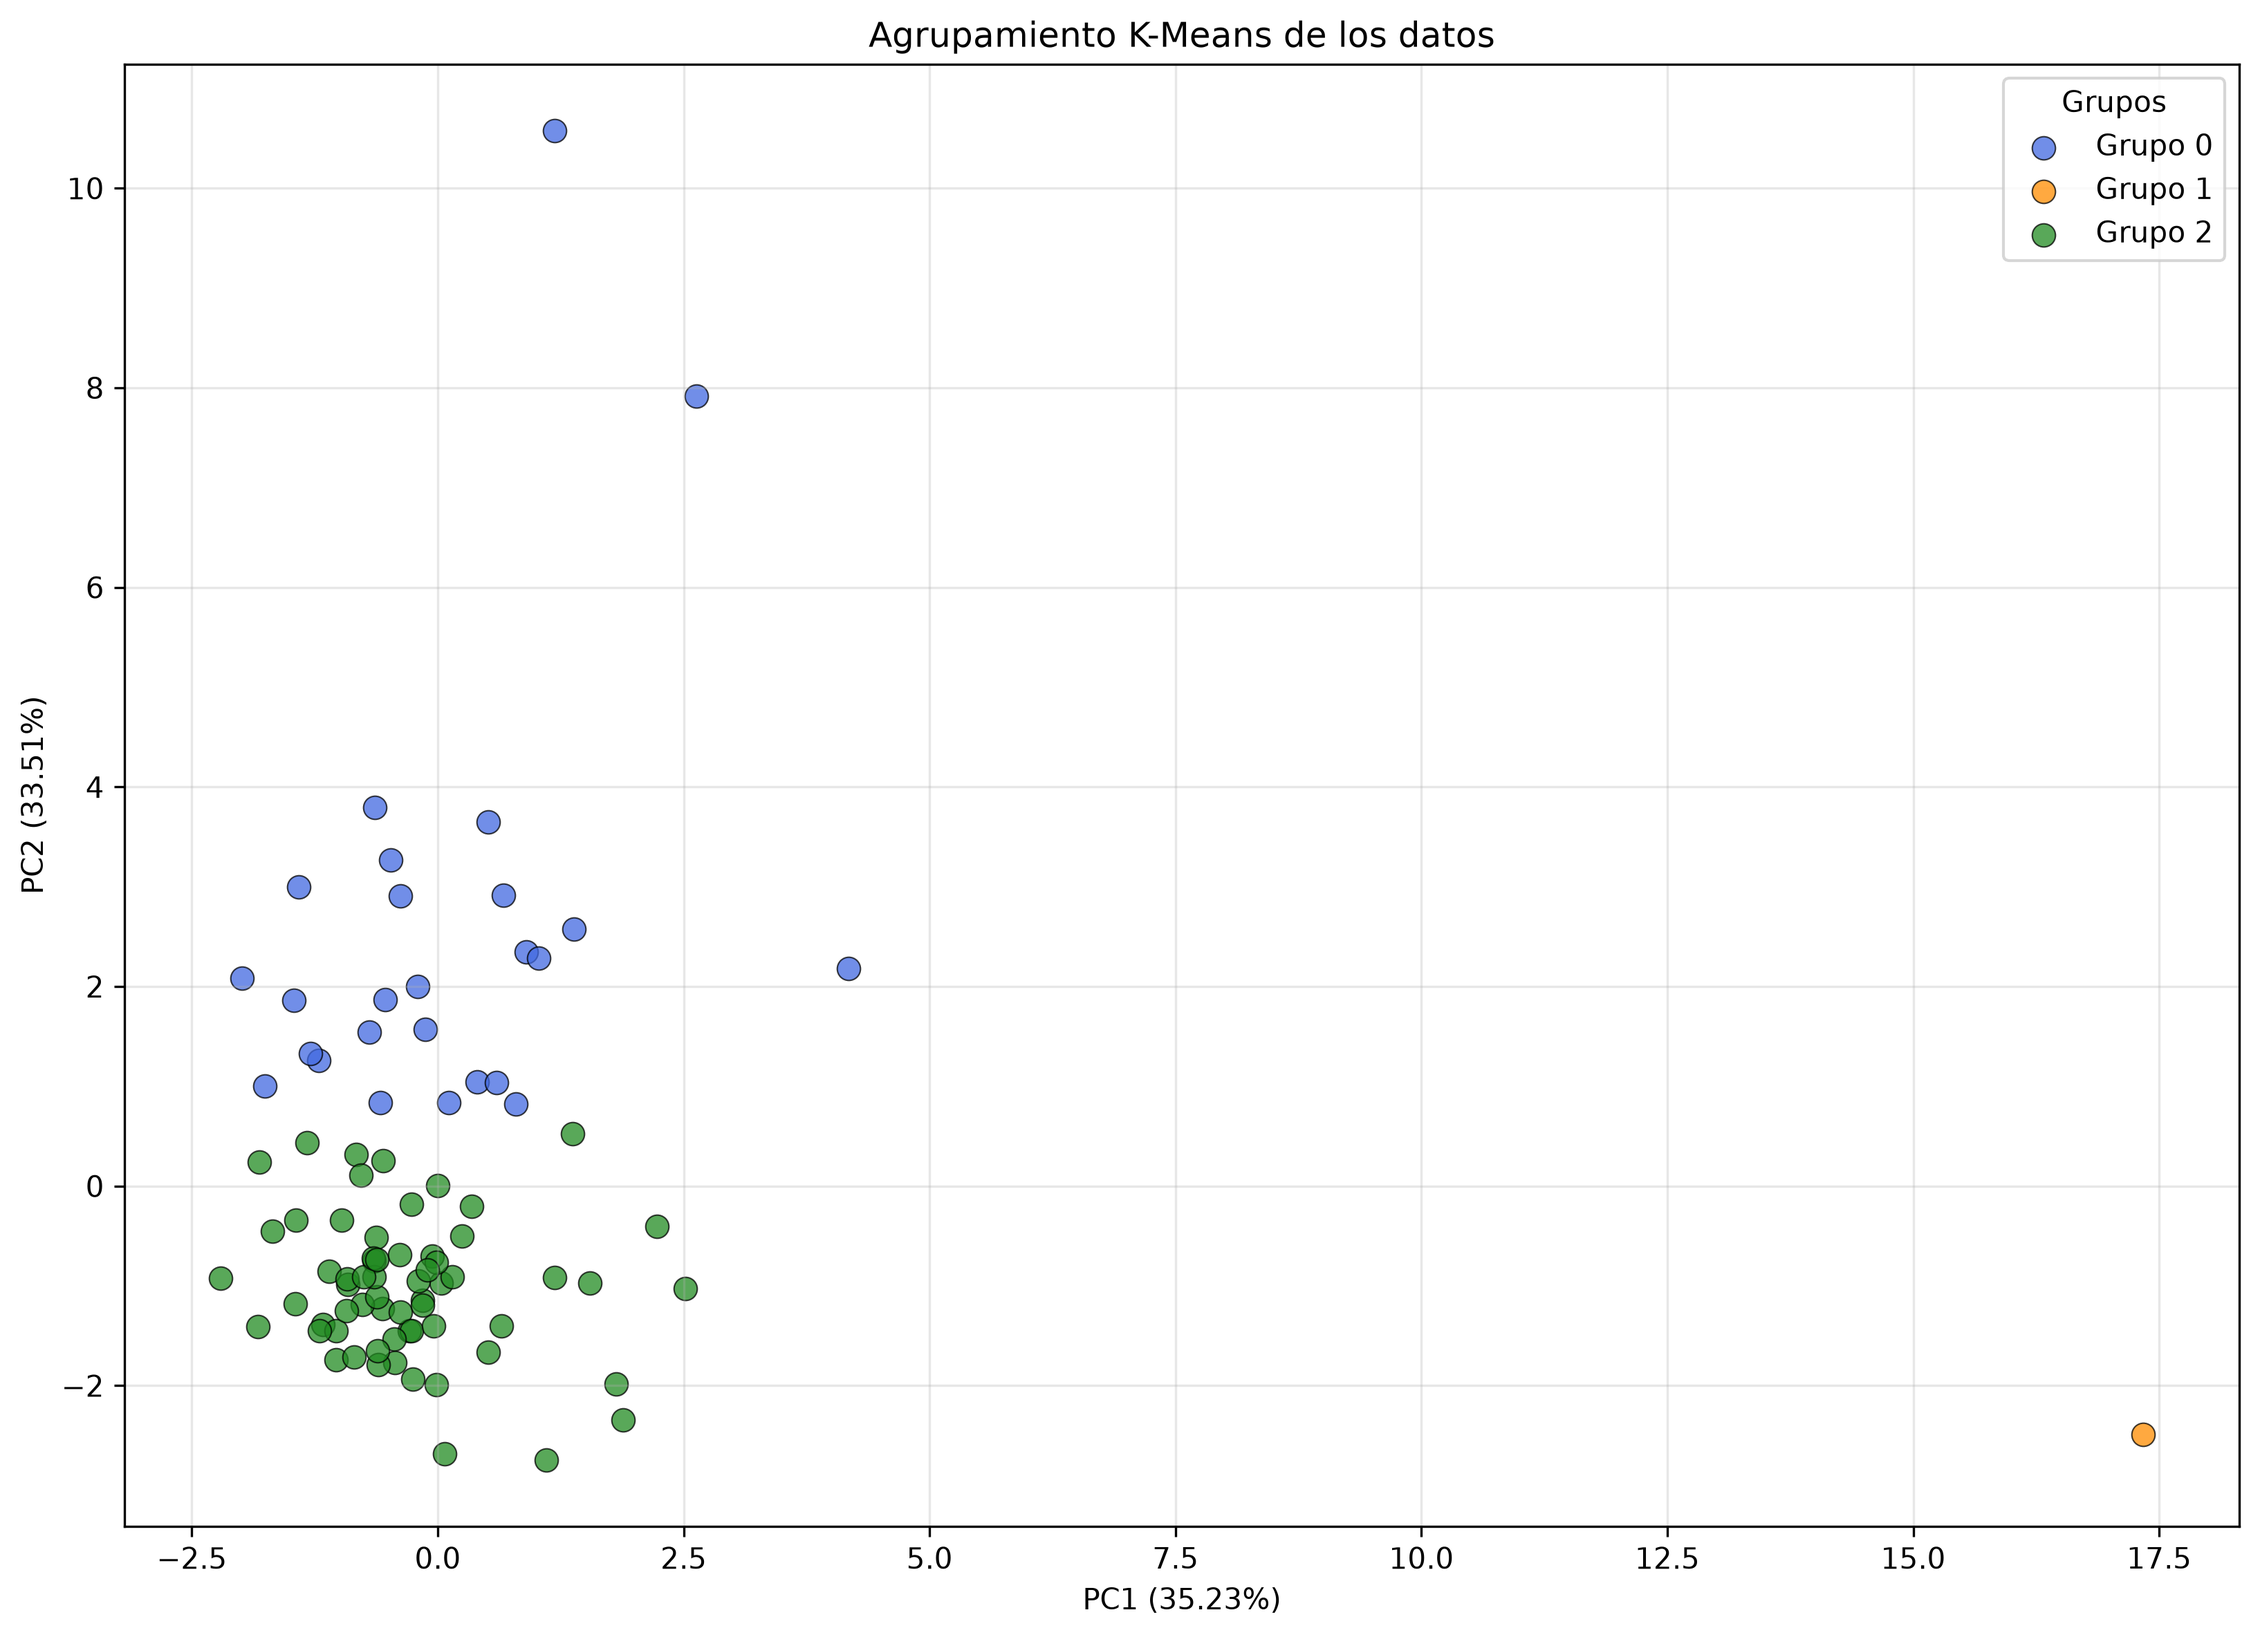
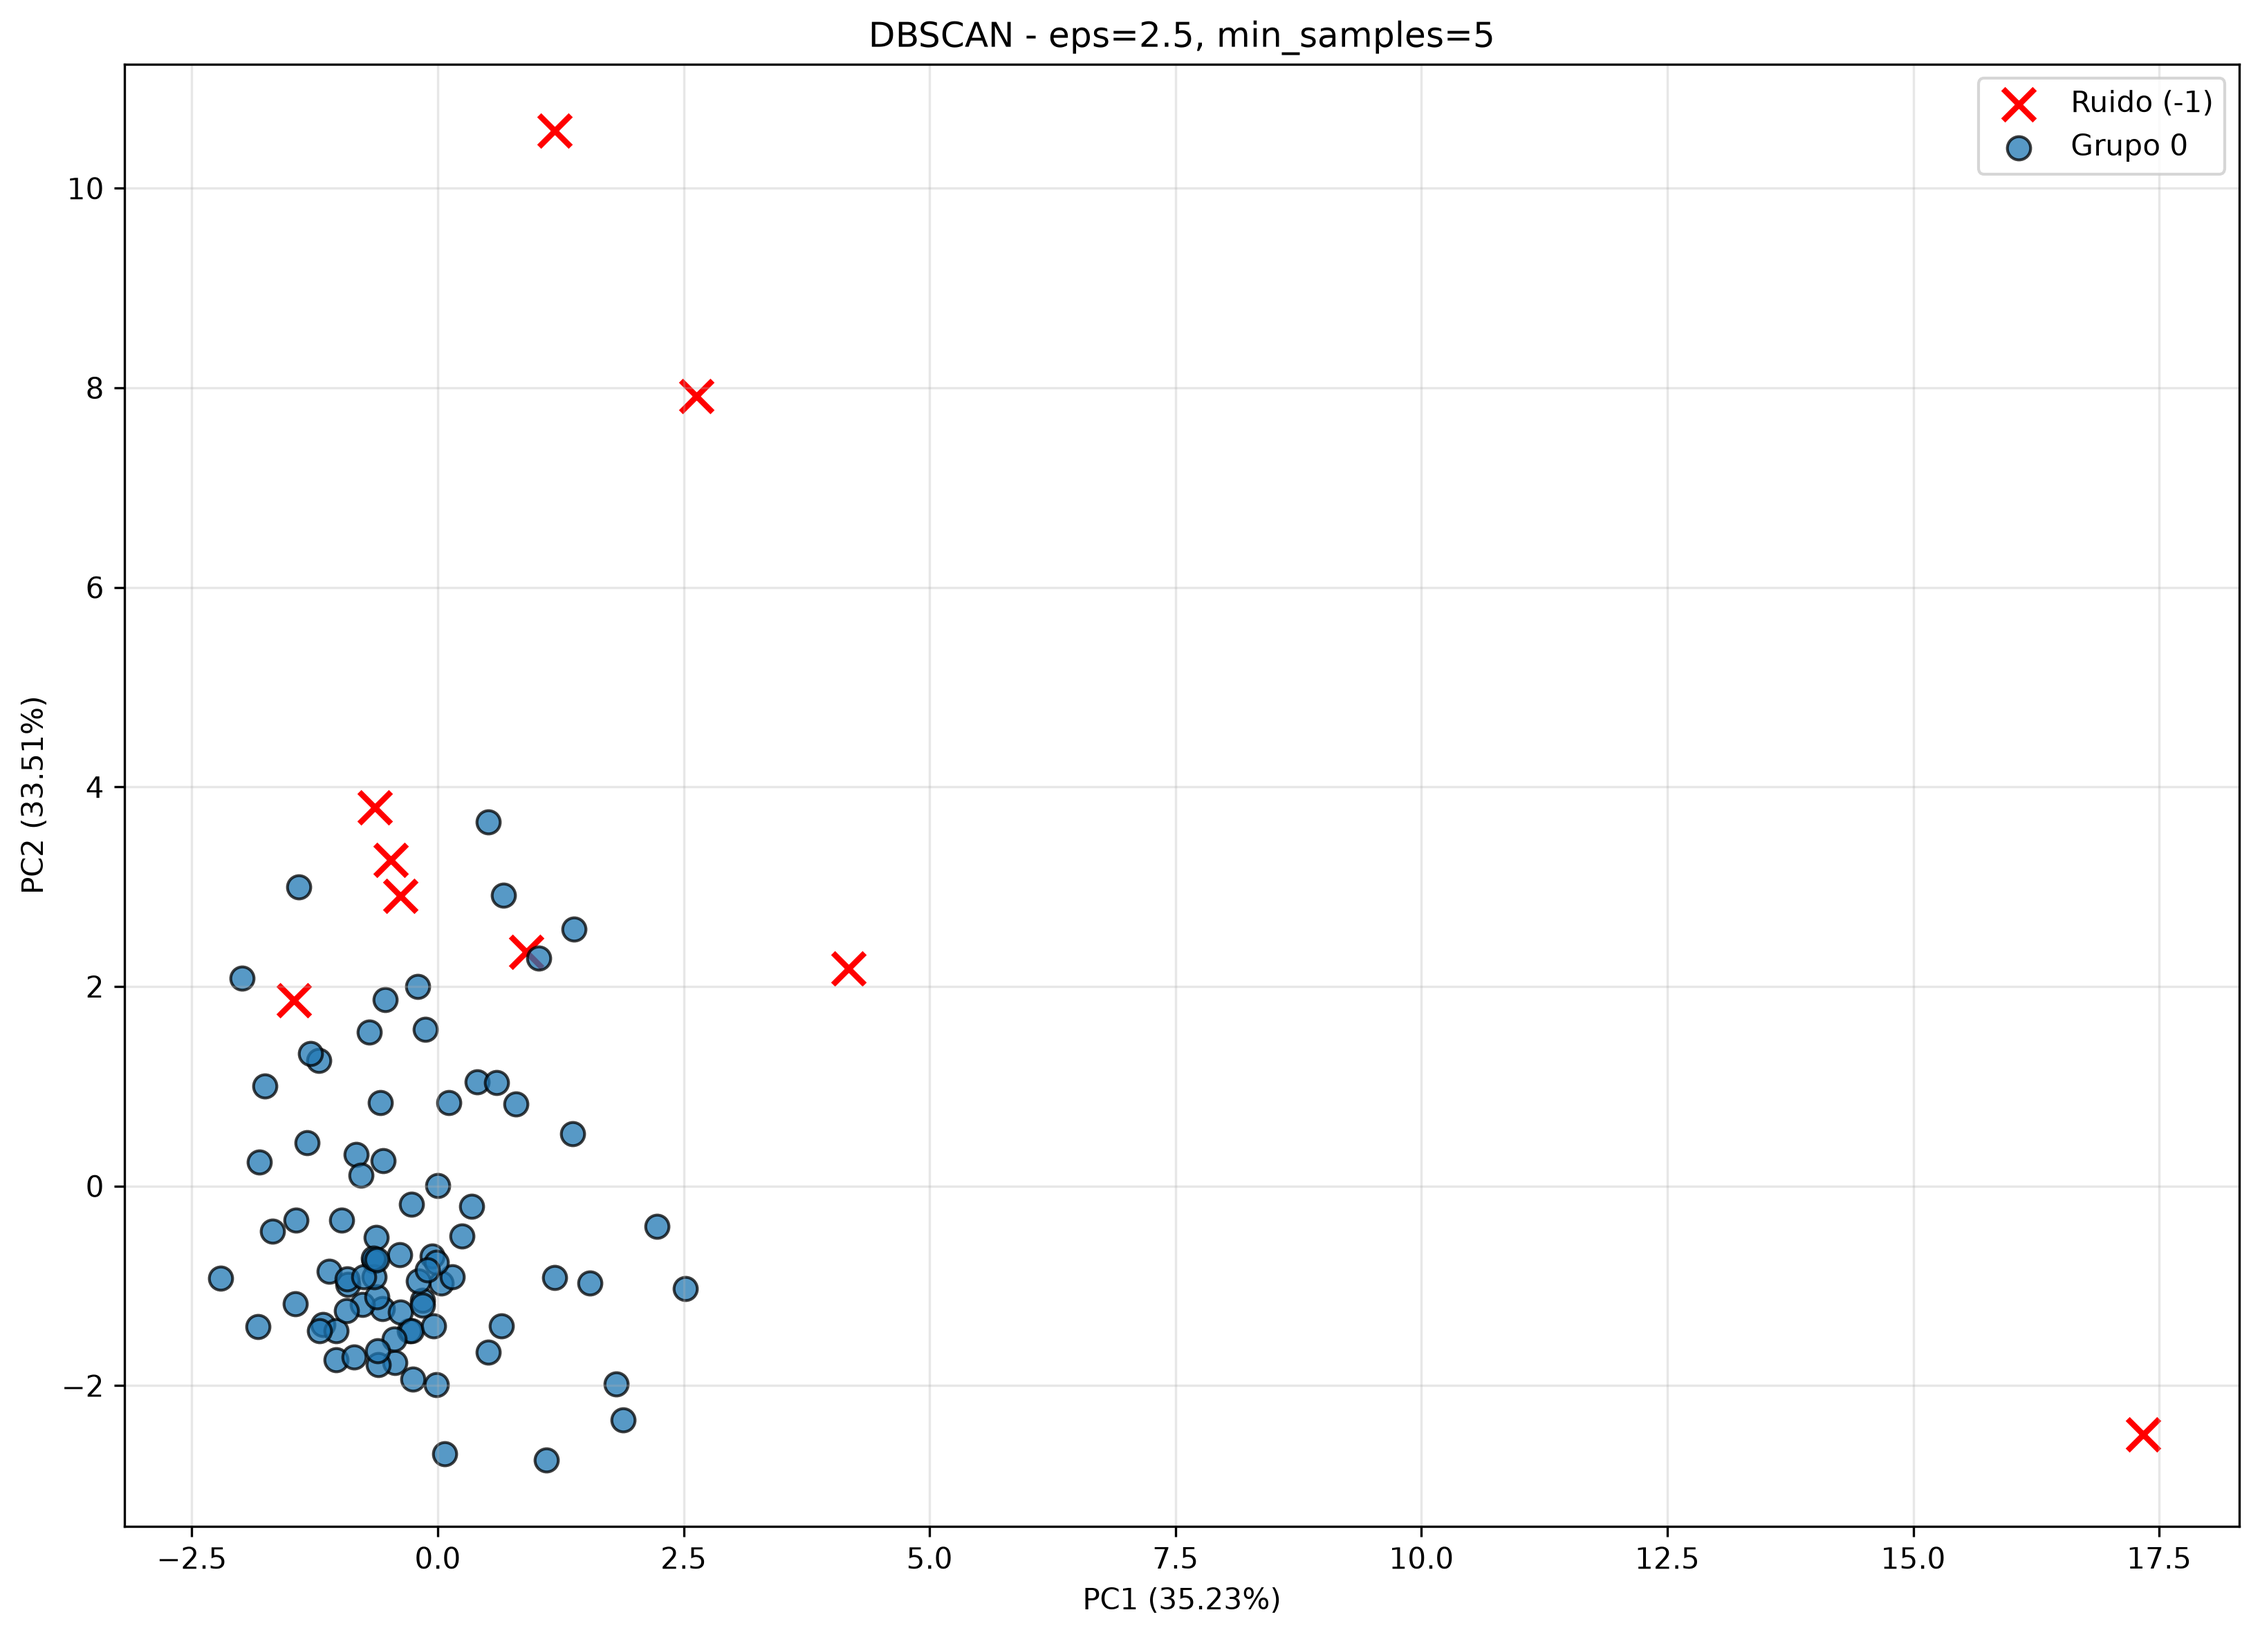
s11 bloque 2: DBSCAN y deteccion de ruido

diff --git a/codigo/clustering.py b/codigo/clustering.py
@@ -1,24 +1,31 @@
 
-# clustering.py - agrupa los datos sin utilizar sus etiquetas
+# clustering.py - K-Means y DBSCAN
 
 import pandas as pd
 import matplotlib.pyplot as plt
 from sklearn.preprocessing import StandardScaler
-from sklearn.cluster import KMeans
+from sklearn.cluster import KMeans, DBSCAN
 from sklearn.decomposition import PCA
 import os
 
-# Leer los datos
+# ========================================
+# LEER Y PREPARAR LOS DATOS
+# ========================================
+
 features = pd.read_csv('datos/features.csv')
 
-# Separar las caracteristicas y las etiquetas
 X = features.drop(columns=['ventana', 'etiqueta'])
 y = features['etiqueta']
 
-# Preparar los datos
-X_esc = StandardScaler().fit_transform(X)
+escalador = StandardScaler()
+X_esc = escalador.fit_transform(X)
 
-# Aplicar K-Means para encontrar 3 grupos
+os.makedirs('figuras', exist_ok=True)
+
+# ========================================
+# BLOQUE 1: K-MEANS
+# ========================================
+
 kmeans = KMeans(
     n_clusters=3,
     n_init=10,
@@ -27,7 +34,6 @@ kmeans = KMeans(
 
 grupos = kmeans.fit_predict(X_esc)
 
-# Mostrar la tabla que compara los grupos con las clases originales
 print("\n========================================")
 print("       RESULTADOS DE K-MEANS")
 print("========================================")
@@ -39,14 +45,16 @@ tabla = pd.crosstab(
     colnames=['Grupo encontrado']
 )
 
-print("\nTabla de comparacion:")
 print(tabla)
 
-# Aplicar PCA para representar los datos en dos dimensiones
+# PCA para representar los datos
 pca = PCA(n_components=2)
 componentes = pca.fit_transform(X_esc)
 
-# Crear la grafica
+pc1 = pca.explained_variance_ratio_[0] * 100
+pc2 = pca.explained_variance_ratio_[1] * 100
+
+# Gráfica K-Means
 plt.figure(figsize=(11, 8))
 
 colores = ['royalblue', 'darkorange', 'forestgreen']
@@ -61,33 +69,121 @@ for grupo in sorted(set(grupos)):
         color=colores[grupo],
         s=65,
         alpha=0.75,
-        edgecolors='black',
-        linewidths=0.5
+        edgecolors='black'
     )
-
-# Agregar porcentajes y nombres
-pc1 = pca.explained_variance_ratio_[0] * 100
-pc2 = pca.explained_variance_ratio_[1] * 100
 
 plt.xlabel(f'PC1 ({pc1:.2f}%)')
 plt.ylabel(f'PC2 ({pc2:.2f}%)')
 plt.title('Agrupamiento K-Means de los datos')
-
-plt.legend(title='Grupos')
-plt.grid(True, alpha=0.3)
+plt.legend()
+plt.grid(alpha=0.3)
 plt.tight_layout()
 
-# Guardar la grafica
-os.makedirs('figuras', exist_ok=True)
+plt.savefig(
+    'figuras/clustering_kmeans.png',
+    dpi=300,
+    bbox_inches='tight'
+)
+
+plt.show()
+
+# ========================================
+# BLOQUE 2: DBSCAN
+# ========================================
+
+print("\n========================================")
+print("       RESULTADOS DE DBSCAN")
+print("========================================")
+
+valores_eps = [1.5, 2.0, 2.5, 3.0, 3.5, 4.0]
+
+print("\nTabla de prueba:")
+print("eps | Grupos encontrados | Puntos de ruido")
+
+for eps in valores_eps:
+
+    dbscan = DBSCAN(
+        eps=eps,
+        min_samples=5
+    )
+
+    grupos_db = dbscan.fit_predict(X_esc)
+
+    n_grupos = len(set(grupos_db)) - (1 if -1 in grupos_db else 0)
+    n_ruido = list(grupos_db).count(-1)
+
+    print(f"{eps} | {n_grupos} | {n_ruido}")
+
+# ========================================
+# SELECCIONAR EPS
+# ========================================
+
+# Valor provisional. Se ajustará según la tabla obtenida.
+eps_elegido = 2.5
+
+dbscan = DBSCAN(
+    eps=eps_elegido,
+    min_samples=5
+)
+
+grupos_db = dbscan.fit_predict(X_esc)
+
+n_grupos = len(set(grupos_db)) - (1 if -1 in grupos_db else 0)
+n_ruido = list(grupos_db).count(-1)
+
+print("\nResultados finales de DBSCAN:")
+print("eps elegido:", eps_elegido)
+print("Grupos encontrados:", n_grupos)
+print("Puntos marcados como ruido:", n_ruido)
+
+# ========================================
+# GRAFICAR DBSCAN
+# ========================================
+
+plt.figure(figsize=(11, 8))
+
+for grupo in sorted(set(grupos_db)):
+
+    mascara = grupos_db == grupo
+
+    if grupo == -1:
+        plt.scatter(
+            componentes[mascara, 0],
+            componentes[mascara, 1],
+            marker='x',
+            color='red',
+            s=120,
+            linewidths=2,
+            label='Ruido (-1)'
+        )
+
+    else:
+        plt.scatter(
+            componentes[mascara, 0],
+            componentes[mascara, 1],
+            s=65,
+            alpha=0.75,
+            edgecolors='black',
+            label=f'Grupo {grupo}'
+        )
+
+plt.xlabel(f'PC1 ({pc1:.2f}%)')
+plt.ylabel(f'PC2 ({pc2:.2f}%)')
+plt.title(f'DBSCAN - eps={eps_elegido}, min_samples=5')
+plt.legend()
+plt.grid(alpha=0.3)
+plt.tight_layout()
+
 plt.savefig(
     'figuras/clustering.png',
     dpi=300,
     bbox_inches='tight'
 )
 
-print("\nGrafica guardada en figuras/clustering.png")
+plt.show()
+
+print("\nGrafica DBSCAN guardada en figuras/clustering.png")
+
 print("\n========================================")
 print("          FIN DEL ANALISIS")
 print("========================================")
-
-plt.show()

diff --git a/BITACORA.md b/BITACORA.md
@@ -461,6 +461,31 @@ K-Means encontró tres grupos, pero no logró separar correctamente mis tres cla
 Creo que el programa agrupó los datos tomando en cuenta qué tan parecidas eran sus lecturas, sin importar si eran `tapado`, `mal_tapado` o `no_tapado`. Por eso, algunas ventanas de diferentes clases terminaron en el mismo grupo. Esto me permite ver que los datos pueden tener semejanzas aunque perten
 
 
+### Bloque 2: DBSCAN, agrupar por densidad
+
+**1. Tabla de valores de `eps` y resultados**
+
+| eps | Grupos encontrados | Puntos de ruido |
+|---:|---:|---:|
+| 1.5 | 1 | 33 |
+| 2.0 | 1 | 17 |
+| 2.5 | 1 | 9 |
+| 3.0 | 1 | 8 |
+| 3.5 | 1 | 7 |
+| 4.0 | 1 | 4 |
+
+Elegí el valor de `eps = 2.5`, porque encontró un grupo y marcó 9 puntos como ruido. Consideré que era una opción adecuada porque no clasificó demasiados datos como ruido y permitió identificar algunos puntos que se encuentran alejados de las zonas con mayor concentración.
+
+**2. ¿Cuántos grupos encontró DBSCAN y coincide con mis tres clases?**
+
+DBSCAN encontró solamente un grupo y no logró separar mis tres clases originales. Esto significa que, utilizando las características de mis datos, encontró una zona principal donde se concentran las lecturas. También identificó 9 puntos como ruido, porque no cumplían con las condiciones necesarias para pertenecer a una zona suficientemente poblada.
+
+**3. ¿Cuántas piezas raras quedaron marcadas como ruido?**
+
+Esta prueba queda pendiente porque todavía falta integrar el archivo `anomalias.csv` con los datos normales. Es necesario realizar esa comparación para conocer cuántas de las piezas raras fueron identificadas como ruido.
+
+
+
 
 
 
